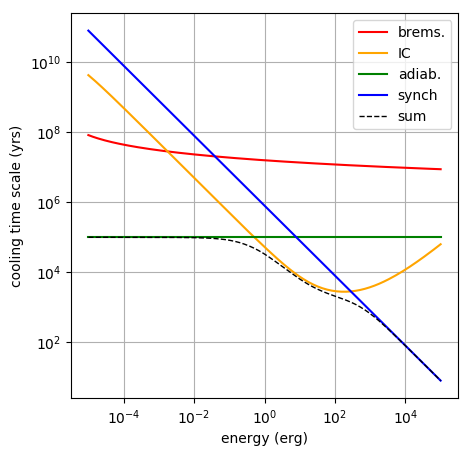
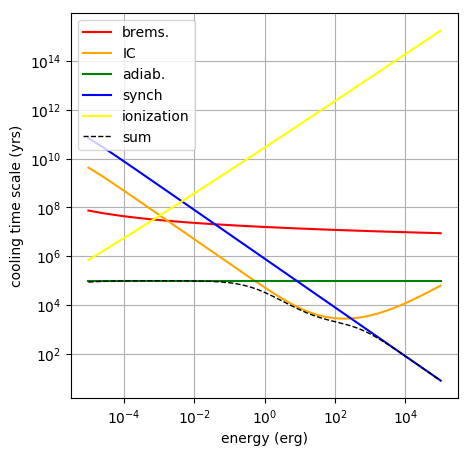
updated tutorial files for ionization losses

diff --git a/docs/loss_times.py b/docs/loss_times.py
@@ -1,6 +1,6 @@
 #!/usr/local/bin/python
 import sys
-sys.path.append(YOUR_GAMERA_LIB)
+sys.path.append('../GAMERA/lib/')
 import gappa as gp
 import numpy as np
 import matplotlib.pyplot as plt
@@ -24,6 +24,7 @@ if __name__ == "__main__":
     brems = np.array(fp.GetCoolingTimeScale(e,"bremsstrahlung"))
     ad = np.array(fp.GetCoolingTimeScale(e,"adiabatic_losses"))
     synch = np.array(fp.GetCoolingTimeScale(e,"synchrotron"))
+    ioniz = np.array(fp.GetCoolingTimeScale(e,"ionization"))
 
     # make a plot
     f = plt.figure(figsize=(5,5))
@@ -31,6 +32,7 @@ if __name__ == "__main__":
     plt.loglog(ic[:,0],ic[:,1],c="orange",label="IC")
     plt.loglog(ad[:,0],ad[:,1],c="green",label="adiab.")
     plt.loglog(synch[:,0],synch[:,1],c="blue",label="synch")
+    plt.loglog(ioniz[:,0],ioniz[:,1],c="yellow",label="ionization")
     plt.loglog(total[:,0],total[:,1],c="black",lw=1,ls="--",label="sum")
     plt.xlabel("energy (erg)")
     plt.ylabel("cooling time scale (yrs)")
